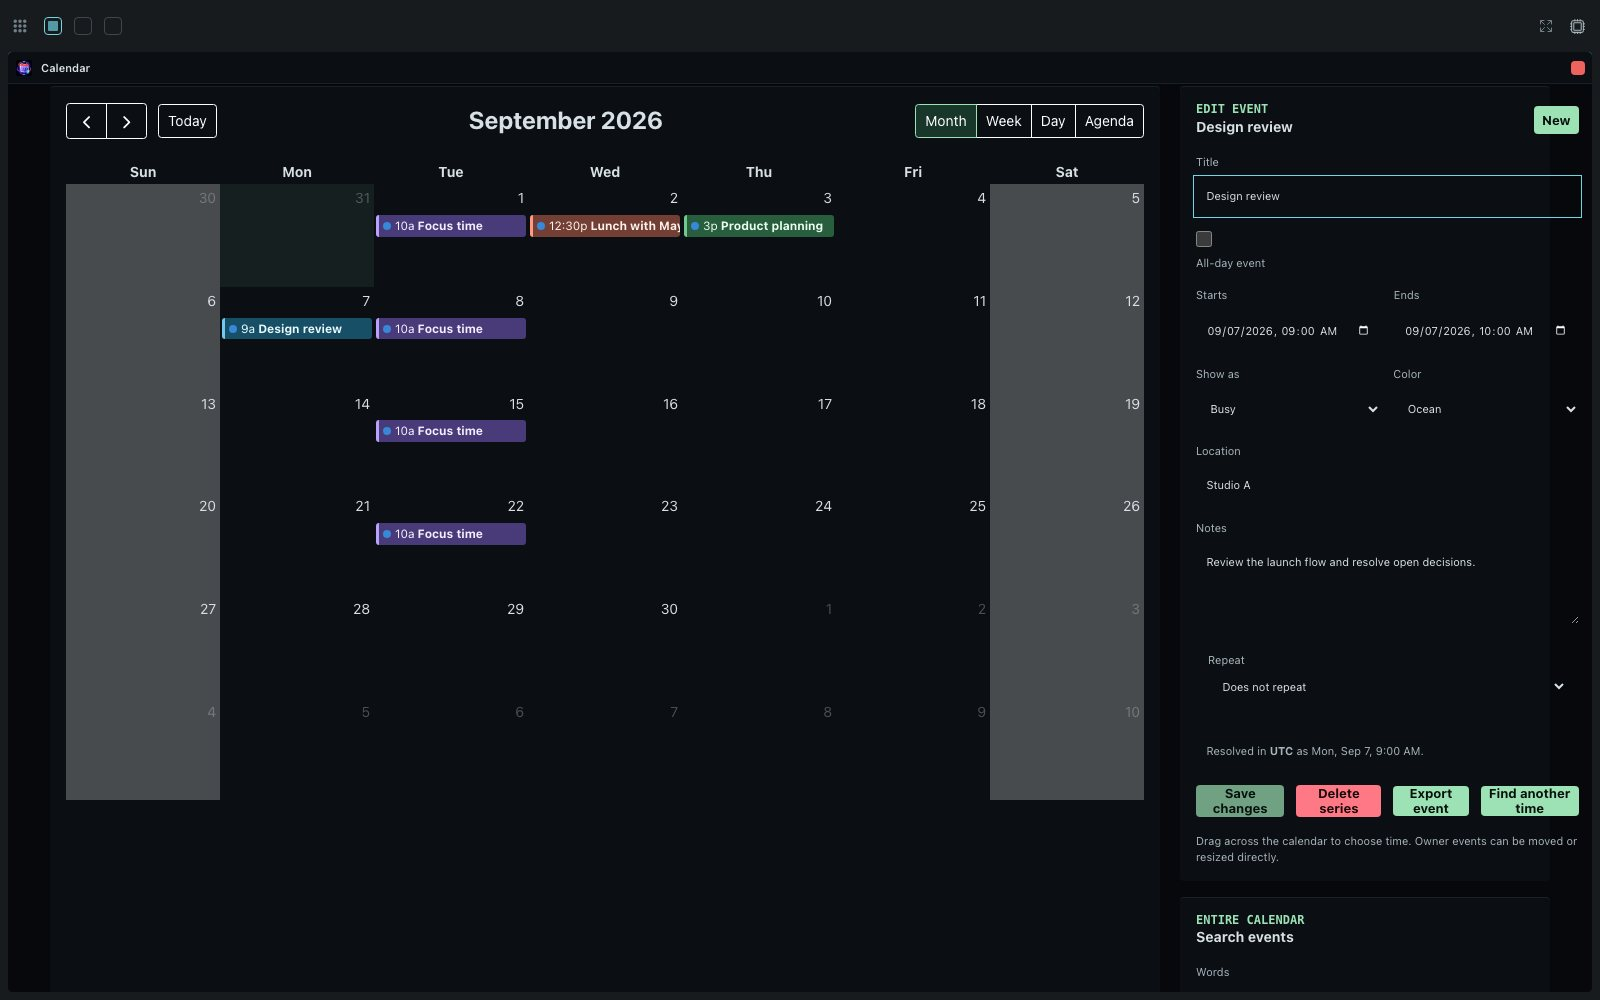
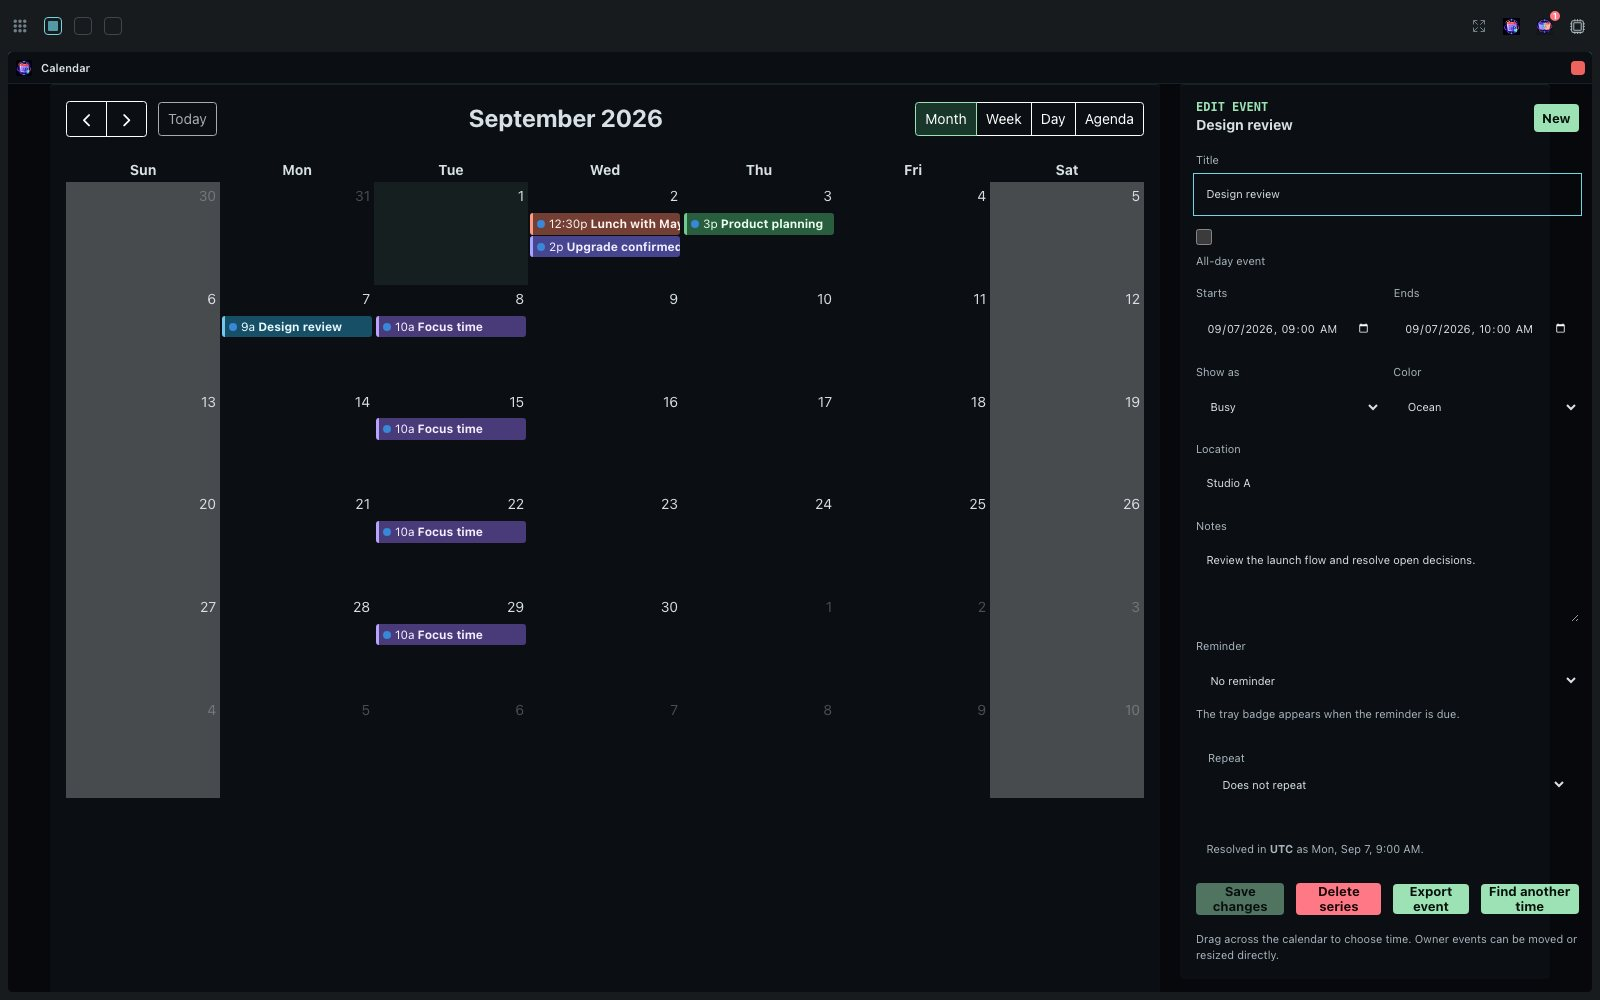
test(calendar): capture 0.6.6 submission evidence

diff --git a/test/e2e/calendar-submission.spec.ts b/test/e2e/calendar-submission.spec.ts
@@ -80,6 +80,43 @@ test("capture the standalone Calendar submission", async ({ browser }) => {
     await calendar.locator(".editor").first().scrollIntoViewIfNeeded();
     await page.screenshot({ path: resolve(output, "04-event-details.jpg"), type: "jpeg", quality: 84 });
 
+    await calendar.getByRole("button", { name: "Export event" }).click();
+    const preparedExport = calendar.locator(".export-publication");
+    await expect(preparedExport).toBeVisible({ timeout: 60_000 });
+    await preparedExport.scrollIntoViewIfNeeded();
+    await page.screenshot({ path: resolve(output, "06-ics-export.jpg"), type: "jpeg", quality: 84 });
+
+    await calendar.getByRole("button", { name: "New", exact: true }).click();
+    const importTitle = "Imported customer workshop";
+    const importBody = [
+      "BEGIN:VCALENDAR", "VERSION:2.0", "PRODID:-//Neutron Calendar Evidence//EN",
+      "BEGIN:VEVENT", "UID:submission-import@calendar.neutron", "SEQUENCE:1",
+      "DTSTART:20270914T150000Z", "DTEND:20270914T160000Z",
+      `SUMMARY:${importTitle}`, "LOCATION:Online", "DESCRIPTION:Review before changing the calendar",
+      "END:VEVENT", "END:VCALENDAR", "",
+    ].join("\r\n");
+    await calendar.getByLabel("Choose `.ics` file").setInputFiles({ name: "customer-workshop.ics", mimeType: "text/calendar", buffer: Buffer.from(importBody) });
+    const importPreview = calendar.getByRole("region", { name: "Import preview for customer-workshop.ics" });
+    await expect(importPreview).toContainText(importTitle, { timeout: 60_000 });
+    await importPreview.scrollIntoViewIfNeeded();
+    await page.screenshot({ path: resolve(output, "07-ics-import-preview.jpg"), type: "jpeg", quality: 84 });
+    await importPreview.getByRole("button", { name: "Cancel preview" }).click();
+
+    const reminderStart = new Date(Date.now() + 2 * 60_000);
+    const reminderEnd = minutesAfter(reminderStart, 30);
+    const activeZone = await calendar.getByLabel("Time zone").inputValue() || "UTC";
+    await calendar.getByLabel("Title", { exact: true }).fill("Launch readiness check");
+    await calendar.getByLabel("Starts", { exact: true }).fill(zonedLocalInput(reminderStart, activeZone));
+    await calendar.getByLabel("Ends", { exact: true }).fill(zonedLocalInput(reminderEnd, activeZone));
+    await calendar.locator("label").filter({ hasText: /^Reminder/ }).locator("select").selectOption({ label: "15 minutes before" });
+    await calendar.getByRole("button", { name: "Add to calendar" }).click();
+    await expect(page.locator('[data-tid="app-tray-button-calendar"]')).toHaveAttribute("aria-label", /1 new item/, { timeout: 60_000 });
+    await page.locator('[data-tid="app-tray-button-calendar"]').click();
+    const reminderTray = page.frameLocator('[data-tid="app-tray-frame"][data-app-id="calendar"]');
+    await expect(reminderTray.getByLabel("Now").getByRole("button", { name: /Launch readiness check/ }).first()).toBeVisible({ timeout: 60_000 });
+    await page.screenshot({ path: resolve(output, "08-reminder-tray.jpg"), type: "jpeg", quality: 84 });
+    await reminderTray.locator("body").press("Escape");
+
     await page.setViewportSize({ width: 430, height: 900 });
     await page.reload({ waitUntil: "domcontentloaded" });
     const compact = page.frameLocator('[data-app-id="calendar"][data-tile-id="main"]').last();

diff --git a/.plan/calendar-p0-p1-workplan.md b/.plan/calendar-p0-p1-workplan.md
@@ -853,8 +853,12 @@ Every phase must preserve:
   web search, and a public subscription feed.
 - [x] Add an interoperability guide for Google and Outlook covering file import,
   URL subscription, polling delays, disclosure, rotation, and revocation.
-- [ ] Add screenshots for export, import preview, Agent-created event review,
-  tray reminder, and feed privacy controls.
+- [x] Add screenshots for the prepared export, import preview, and actionable
+  tray reminder under `submission-assets/calendar/06-ics-export.jpg` through
+  `08-reminder-tray.jpg` using the exact 0.6.6 installed UI.
+- [ ] Add an Agent-created event review screenshot only after the real Agent
+  0.3.9 acceptance run. Feed privacy controls are not applicable because the
+  subscription feed is withheld from 0.6.6.
 - [ ] Record the exact Google/Outlook test dates and product surfaces; cloud UI
   behavior is external and can change.
 - [x] Keep P0 and P1 release notes distinct.
